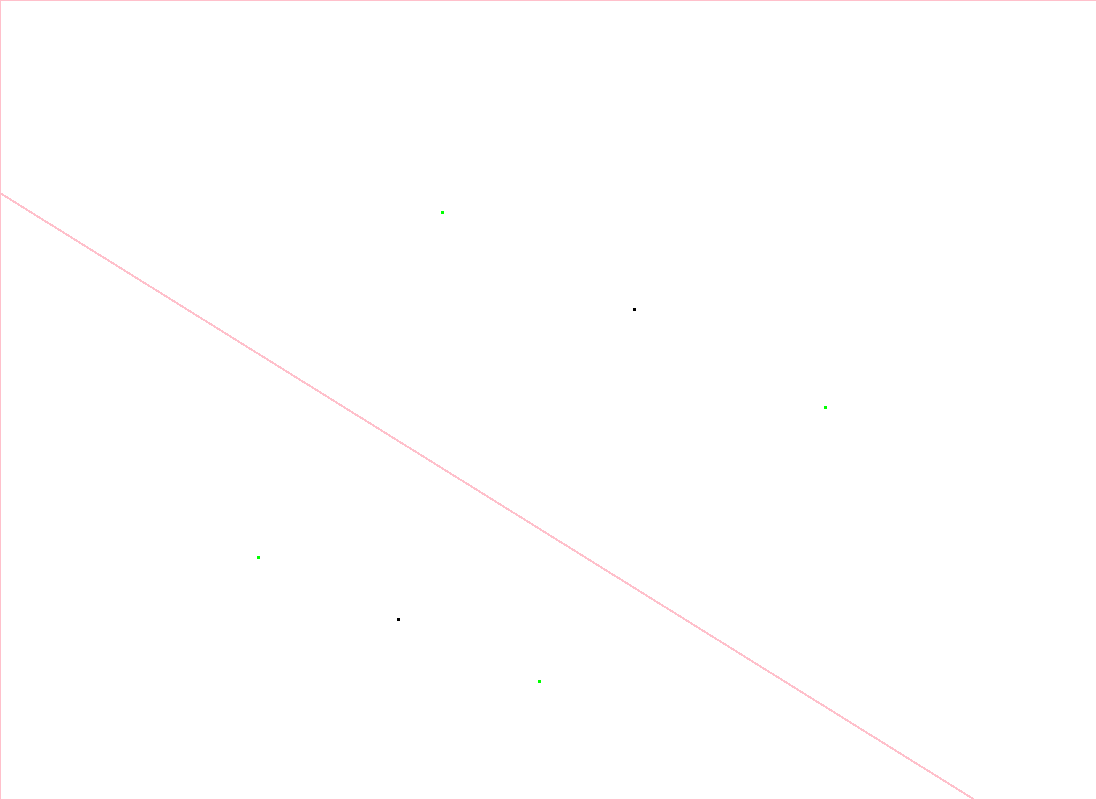
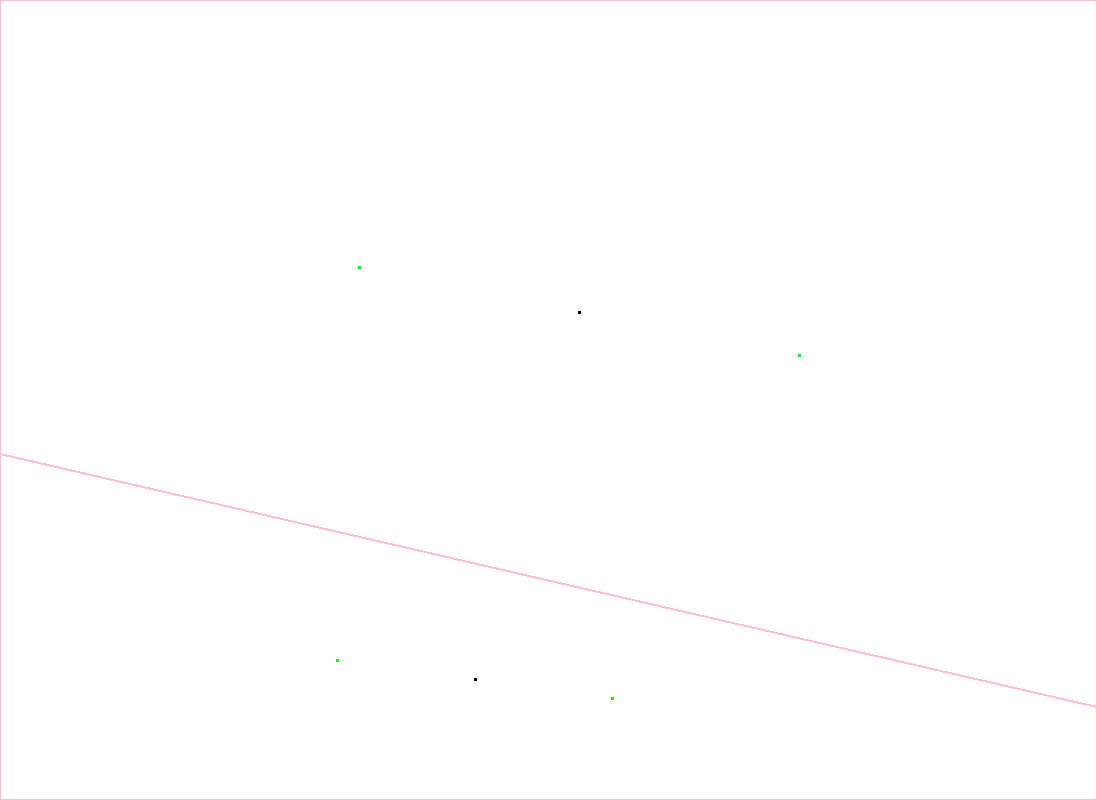
integrate draw voronoi into GUI

Changed region(s): [[0.5889, 0.75, 0.6509, 0.7812], [0.5579, 0.7188, 0.5889, 0.75]]

diff --git a/WLGB/src/voronoi.cpp b/WLGB/src/voronoi.cpp
@@ -2,8 +2,8 @@
 
 #include <iostream>
 #include <vector>
-#include <omp.h>
-// #include "/opt/homebrew/Cellar/libomp/18.1.3/include/omp.h"
+//#include <omp.h>
+ #include "/opt/homebrew/Cellar/libomp/18.1.3/include/omp.h"
 
 #define JC_VORONOI_IMPLEMENTATION
 #include "jc_voronoi.h"
@@ -20,7 +20,10 @@ jcv_point* construct_jcv(const std::vector<Stipple> &points, const jcv_point* mi
     // Copy data from Stipple vector to jcv_point array in parallel
     #pragma omp parallel for
     for (size_t i = 0; i < points.size(); ++i) {
-        jcv_point p(points[i].pos[0] * scale->x, points[i].pos[1] * scale->y);
+//        jcv_point p(points[i].pos[0] * scale->x, points[i].pos[1] * scale->y);
+        jcv_point p;
+        p.x = points[i].pos[0] * scale->x;
+        p.y = points[i].pos[1] * scale->y;
         //jcv_point r = remap(&p, min, max, scale);
         jcv_points[i] = p;
     }
@@ -87,7 +90,9 @@ std::vector<Cell> WLBG::generate_voronoi_cells(std::vector<Stipple> points, draw
             {
                 for (int x = minX; x <= maxX; x++)
                 {
-                    p = jcv_point(x, y);
+//                    p = jcv_point(x, y);
+                    p.x = x;
+                    p.y = y;
 
                     if (isInsideTriangle(p0, p1, s, p))
                         idxMap.set(p.x, p.y, (uint32_t)i);

diff --git a/WLGB/src/wlbg.cpp b/WLGB/src/wlbg.cpp
@@ -27,7 +27,7 @@ WLBG::WLBG()
 
 }
 
-std::vector<Stipple> WLBG::stippling(Canvas *m_canvas, WLBG *m_wlbg)
+std::vector<Stipple> WLBG::stippling(Canvas *m_canvas, WLBG *m_wlbg, bool isVoronoi)
 {
     // init
     std::vector<Stipple> stipples = init_stipples();
@@ -80,9 +80,15 @@ std::vector<Stipple> WLBG::stippling(Canvas *m_canvas, WLBG *m_wlbg)
         num_split = 0;
         num_merge = 0;
 
-        m_wlbg->paint(m_canvas, stipples, i);
+        if (isVoronoi == true) {
+            d.endPaint(i, m_canvas);
+        }
+        else
+        {
+            m_wlbg->paint(m_canvas, stipples, i);
+        }
 
-        d.endPaint(i);
+
         // Handle other events, allowing GUI updates
         QCoreApplication::processEvents();
     }
@@ -122,8 +128,8 @@ void WLBG::paint(Canvas *m_canvas, std::vector<Stipple> points, int iteration)
 //    emit m_canvas->imageUpdated(m_canvas, image);
 
     // Now schedule the displayImage call on the main thread
-    QMetaObject::invokeMethod(m_canvas, "displayImage", Qt::QueuedConnection,
-                              Q_ARG(QImage, image));
+//    QMetaObject::invokeMethod(m_canvas, "displayImage", Qt::QueuedConnection,
+//                              Q_ARG(QImage, image));
 
 
      // Save the image

diff --git a/WLGB/src/mainwindow.cpp b/WLGB/src/mainwindow.cpp
@@ -60,8 +60,9 @@ MainWindow::MainWindow()
 
     // filter push buttons
     addPushButton(layout, "Load Image", &MainWindow::onUploadButtonClick);
-    addPushButton(layout, "Save Image", &MainWindow::onSaveButtonClick);
     addPushButton(layout, "Stippling", &MainWindow::onStippleButtonClick);
+    addPushButton(layout, "Draw Voronoi Diagram", &MainWindow::onDrawVoronoiButtonClick);
+//    addPushButton(layout, "Save Image", &MainWindow::onSaveButtonClick);
 }
 
 
@@ -143,11 +144,16 @@ void MainWindow::onClearButtonClick() {
 void MainWindow::onStippleButtonClick() {
 //    // stippling
     WLBG m_wlbg = WLBG();
-    std::vector<Stipple> stipples = m_wlbg.stippling(m_canvas, &m_wlbg);
+    std::vector<Stipple> stipples = m_wlbg.stippling(m_canvas, &m_wlbg, false);
 
     std::cout << "finish" << std::endl;
 //    m_wlbg.paint(m_canvas, stipples, 5);
 
+}
+
+void MainWindow::onDrawVoronoiButtonClick() {
+    WLBG m_wlbg = WLBG();
+    std::vector<Stipple> stipples = m_wlbg.stippling(m_canvas, &m_wlbg, true);
 }
 
 void MainWindow::onUploadButtonClick() {

diff --git a/WLGB/src/wlbg.h b/WLGB/src/wlbg.h
@@ -6,8 +6,8 @@
 #include "Eigen/Sparse"
 
 #include <set>
-#include <omp.h>
-// #include "/opt/homebrew/Cellar/libomp/18.1.3/include/omp.h"
+//#include <omp.h>
+ #include "/opt/homebrew/Cellar/libomp/18.1.3/include/omp.h"
 
 #include "mainwindow.h"
 
@@ -51,7 +51,7 @@ public:
 
 public:
     WLBG();
-    std::vector<Stipple> stippling(Canvas *m_canvas, WLBG *wlbg);
+    std::vector<Stipple> stippling(Canvas *m_canvas, WLBG *wlbg, bool isVoronoi);
     void paint(Canvas *m_canvas, std::vector<Stipple> points, int iteration);
 
     // stipples

diff --git a/WLGB/src/draw.h b/WLGB/src/draw.h
@@ -4,6 +4,7 @@
 #include <QPainter>
 #include <QColor>
 #include "src/jc_voronoi.h"
+#include "mainwindow.h"
 
 class draw
 {
@@ -14,7 +15,7 @@ public:
     // void drawPoints(std::vector<Stipple> &stipples, QColor color);
     void drawPoints(float posx, float posy, QColor color);
     void drawX(float posx, float posy, QColor color);
-    void endPaint(int i);
+    void endPaint(int i, Canvas *m_canvas);
 
 private:
     QImage image;

diff --git a/WLGB/src/draw.cpp b/WLGB/src/draw.cpp
@@ -32,8 +32,9 @@ void draw::drawX(float posx, float posy, QColor color) {
     painter.drawLine(posx - elipson, posy + elipson, posx + elipson, posy - elipson);
 }
 
-void draw::endPaint(int i) {
+void draw::endPaint(int i, Canvas *m_canvas) {
     painter.end();
     QString filename = QString("veronoi-images/veronoi%1.png").arg(i);
     image.save(filename);
+    m_canvas->displayImage(image);
 }

diff --git a/WLGB/src/canvas.cpp b/WLGB/src/canvas.cpp
@@ -7,7 +7,7 @@
 #include "settings.h"
 
 /**
- * @brief Initializes new 500x500 canvas
+ * @brief Initializes new 1200x1200 canvas
  */
 void Canvas::init() {
     setMouseTracking(true);

diff --git a/WLGB/src/mainwindow.h b/WLGB/src/mainwindow.h
@@ -38,4 +38,5 @@ private:
     void addPushButton(QBoxLayout *layout, QString text, auto function);
 
     void onStippleButtonClick();
+    void onDrawVoronoiButtonClick();
 };
